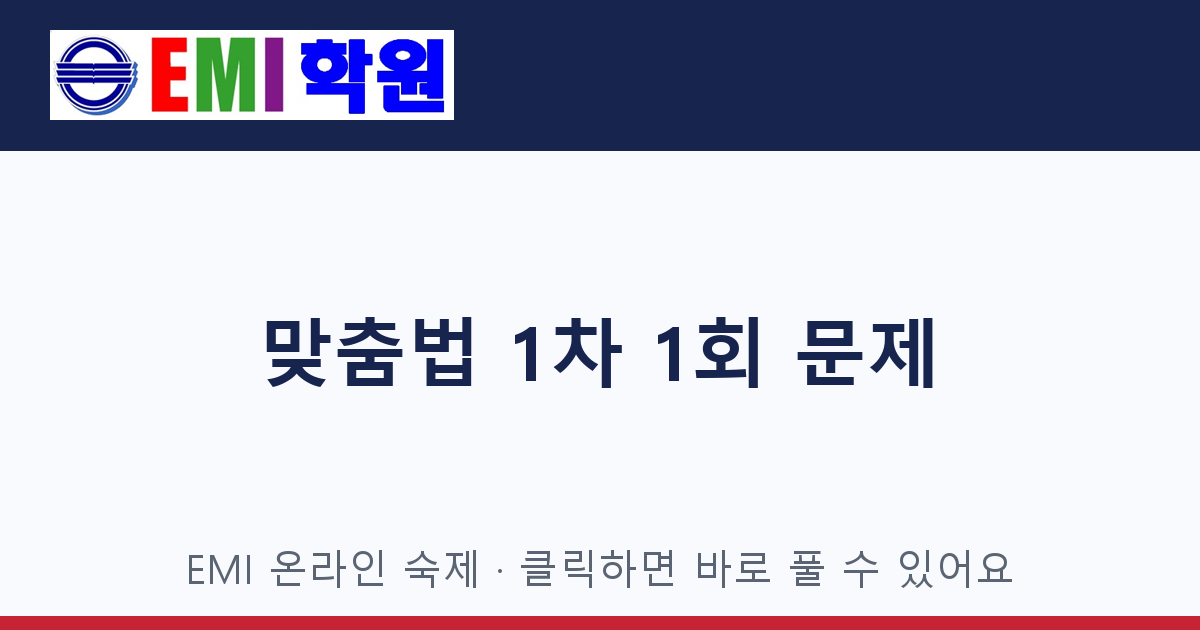
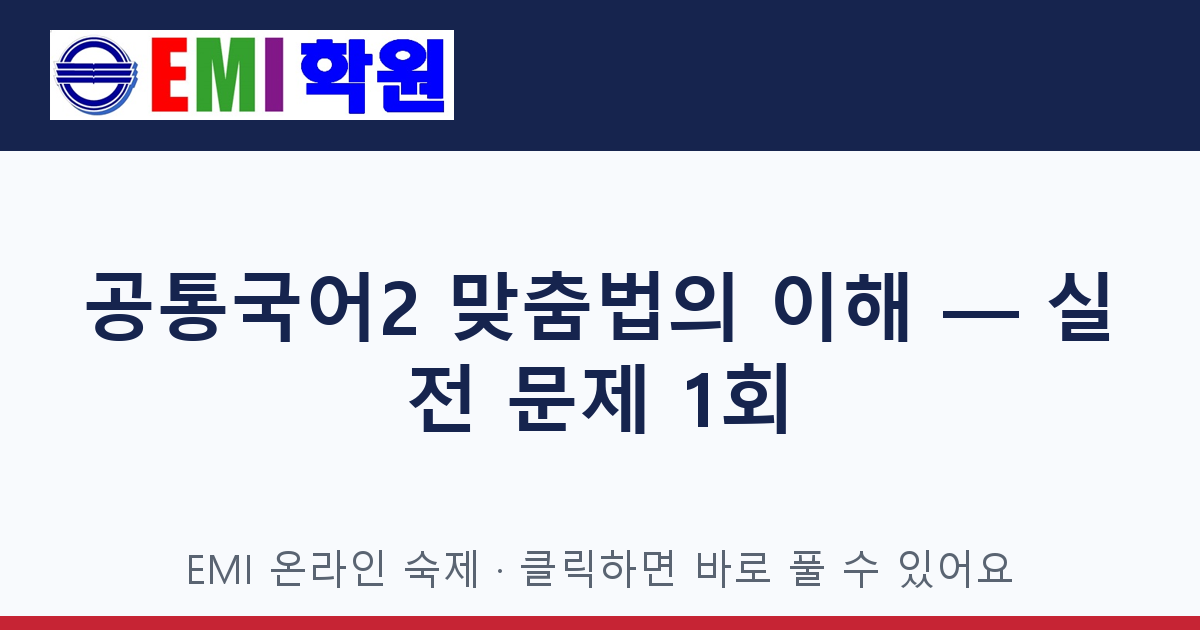
cards: machum1,machum2,machum3

Changed region(s): [[0.0617, 0.4222, 0.925, 0.6937]]

diff --git a/machum1.html b/machum1.html
@@ -1,20 +1,20 @@
 <!doctype html><html lang="ko"><head><meta charset="utf-8">
 <meta name="viewport" content="width=device-width, initial-scale=1">
-<title>한글 맞춤법 1차 1회 숙제 (제1·2·5·6·9·10·11·12항)</title>
+<title>공통국어2 한글 맞춤법의 이해 — 실전 문제 1회</title>
 <meta name="description" content="EMI 온라인 숙제 · 클릭하면 바로 풀 수 있어요 (제출 결과는 선생님에게 전송됩니다)">
 <meta property="og:type" content="website">
-<meta property="og:title" content="한글 맞춤법 1차 1회 숙제 (제1·2·5·6·9·10·11·12항)">
+<meta property="og:title" content="공통국어2 한글 맞춤법의 이해 — 실전 문제 1회">
 <meta property="og:description" content="EMI 온라인 숙제 · 클릭하면 바로 풀 수 있어요 (제출 결과는 선생님에게 전송됩니다)">
 <meta property="og:image" content="https://yanga1052-del.github.io/emi-hw-preview/img/machum1.png">
 <meta property="og:url" content="https://yanga1052-del.github.io/emi-hw-preview/machum1.html">
 <meta name="twitter:card" content="summary_large_image">
-<meta name="twitter:title" content="한글 맞춤법 1차 1회 숙제 (제1·2·5·6·9·10·11·12항)">
+<meta name="twitter:title" content="공통국어2 한글 맞춤법의 이해 — 실전 문제 1회">
 <meta name="twitter:description" content="EMI 온라인 숙제 · 클릭하면 바로 풀 수 있어요 (제출 결과는 선생님에게 전송됩니다)">
 <meta name="twitter:image" content="https://yanga1052-del.github.io/emi-hw-preview/img/machum1.png">
 <meta http-equiv="refresh" content="0; url=https://script.google.com/macros/s/AKfycbyF3ateTjzvvQgbUPQ1zHatpe2qTKi0NUpeD05WZu_OVzvtxLwxgMTxlddT3Mv3tvPU/exec?hw=machum1">
 <style>body{font-family:'Malgun Gothic',sans-serif;background:#f6f8fb;color:#1a2432;display:flex;min-height:100vh;align-items:center;justify-content:center;margin:0}
 .card{background:#fff;border-radius:16px;box-shadow:0 8px 30px rgba(20,30,70,.12);padding:40px 44px;text-align:center;max-width:460px}
 h1{color:#16244e;font-size:22px;margin:.2em 0 .6em} p{color:#5a6472} a{display:inline-block;margin-top:18px;background:#16244e;color:#fff;text-decoration:none;padding:13px 26px;border-radius:10px;font-weight:bold}</style>
-</head><body><div class="card"><h1>한글 맞춤법 1차 1회 숙제 (제1·2·5·6·9·10·11·12항)</h1><p>잠시 후 숙제 페이지로 이동합니다.<br>이동하지 않으면 아래 버튼을 눌러 주세요.</p>
+</head><body><div class="card"><h1>공통국어2 한글 맞춤법의 이해 — 실전 문제 1회</h1><p>잠시 후 숙제 페이지로 이동합니다.<br>이동하지 않으면 아래 버튼을 눌러 주세요.</p>
 <a href="https://script.google.com/macros/s/AKfycbyF3ateTjzvvQgbUPQ1zHatpe2qTKi0NUpeD05WZu_OVzvtxLwxgMTxlddT3Mv3tvPU/exec?hw=machum1">숙제 풀러 가기 →</a></div>
 <script>location.replace("https://script.google.com/macros/s/AKfycbyF3ateTjzvvQgbUPQ1zHatpe2qTKi0NUpeD05WZu_OVzvtxLwxgMTxlddT3Mv3tvPU/exec?hw=machum1");</script></body></html>

diff --git a/machum2.html b/machum2.html
@@ -1,20 +1,20 @@
 <!doctype html><html lang="ko"><head><meta charset="utf-8">
 <meta name="viewport" content="width=device-width, initial-scale=1">
-<title>한글 맞춤법 1차 2회 숙제 (제1·2·5·6·9·10·11·12항)</title>
+<title>공통국어2 한글 맞춤법의 이해 — 실전 문제 2회</title>
 <meta name="description" content="EMI 온라인 숙제 · 클릭하면 바로 풀 수 있어요 (제출 결과는 선생님에게 전송됩니다)">
 <meta property="og:type" content="website">
-<meta property="og:title" content="한글 맞춤법 1차 2회 숙제 (제1·2·5·6·9·10·11·12항)">
+<meta property="og:title" content="공통국어2 한글 맞춤법의 이해 — 실전 문제 2회">
 <meta property="og:description" content="EMI 온라인 숙제 · 클릭하면 바로 풀 수 있어요 (제출 결과는 선생님에게 전송됩니다)">
 <meta property="og:image" content="https://yanga1052-del.github.io/emi-hw-preview/img/machum2.png">
 <meta property="og:url" content="https://yanga1052-del.github.io/emi-hw-preview/machum2.html">
 <meta name="twitter:card" content="summary_large_image">
-<meta name="twitter:title" content="한글 맞춤법 1차 2회 숙제 (제1·2·5·6·9·10·11·12항)">
+<meta name="twitter:title" content="공통국어2 한글 맞춤법의 이해 — 실전 문제 2회">
 <meta name="twitter:description" content="EMI 온라인 숙제 · 클릭하면 바로 풀 수 있어요 (제출 결과는 선생님에게 전송됩니다)">
 <meta name="twitter:image" content="https://yanga1052-del.github.io/emi-hw-preview/img/machum2.png">
 <meta http-equiv="refresh" content="0; url=https://script.google.com/macros/s/AKfycbyF3ateTjzvvQgbUPQ1zHatpe2qTKi0NUpeD05WZu_OVzvtxLwxgMTxlddT3Mv3tvPU/exec?hw=machum2">
 <style>body{font-family:'Malgun Gothic',sans-serif;background:#f6f8fb;color:#1a2432;display:flex;min-height:100vh;align-items:center;justify-content:center;margin:0}
 .card{background:#fff;border-radius:16px;box-shadow:0 8px 30px rgba(20,30,70,.12);padding:40px 44px;text-align:center;max-width:460px}
 h1{color:#16244e;font-size:22px;margin:.2em 0 .6em} p{color:#5a6472} a{display:inline-block;margin-top:18px;background:#16244e;color:#fff;text-decoration:none;padding:13px 26px;border-radius:10px;font-weight:bold}</style>
-</head><body><div class="card"><h1>한글 맞춤법 1차 2회 숙제 (제1·2·5·6·9·10·11·12항)</h1><p>잠시 후 숙제 페이지로 이동합니다.<br>이동하지 않으면 아래 버튼을 눌러 주세요.</p>
+</head><body><div class="card"><h1>공통국어2 한글 맞춤법의 이해 — 실전 문제 2회</h1><p>잠시 후 숙제 페이지로 이동합니다.<br>이동하지 않으면 아래 버튼을 눌러 주세요.</p>
 <a href="https://script.google.com/macros/s/AKfycbyF3ateTjzvvQgbUPQ1zHatpe2qTKi0NUpeD05WZu_OVzvtxLwxgMTxlddT3Mv3tvPU/exec?hw=machum2">숙제 풀러 가기 →</a></div>
 <script>location.replace("https://script.google.com/macros/s/AKfycbyF3ateTjzvvQgbUPQ1zHatpe2qTKi0NUpeD05WZu_OVzvtxLwxgMTxlddT3Mv3tvPU/exec?hw=machum2");</script></body></html>

diff --git a/machum3.html b/machum3.html
@@ -1,20 +1,20 @@
 <!doctype html><html lang="ko"><head><meta charset="utf-8">
 <meta name="viewport" content="width=device-width, initial-scale=1">
-<title>한글 맞춤법 1차 3회 숙제 (제1·2·5·6·9·10·11·12항)</title>
+<title>공통국어2 한글 맞춤법의 이해 — 실전 문제 3회</title>
 <meta name="description" content="EMI 온라인 숙제 · 클릭하면 바로 풀 수 있어요 (제출 결과는 선생님에게 전송됩니다)">
 <meta property="og:type" content="website">
-<meta property="og:title" content="한글 맞춤법 1차 3회 숙제 (제1·2·5·6·9·10·11·12항)">
+<meta property="og:title" content="공통국어2 한글 맞춤법의 이해 — 실전 문제 3회">
 <meta property="og:description" content="EMI 온라인 숙제 · 클릭하면 바로 풀 수 있어요 (제출 결과는 선생님에게 전송됩니다)">
 <meta property="og:image" content="https://yanga1052-del.github.io/emi-hw-preview/img/machum3.png">
 <meta property="og:url" content="https://yanga1052-del.github.io/emi-hw-preview/machum3.html">
 <meta name="twitter:card" content="summary_large_image">
-<meta name="twitter:title" content="한글 맞춤법 1차 3회 숙제 (제1·2·5·6·9·10·11·12항)">
+<meta name="twitter:title" content="공통국어2 한글 맞춤법의 이해 — 실전 문제 3회">
 <meta name="twitter:description" content="EMI 온라인 숙제 · 클릭하면 바로 풀 수 있어요 (제출 결과는 선생님에게 전송됩니다)">
 <meta name="twitter:image" content="https://yanga1052-del.github.io/emi-hw-preview/img/machum3.png">
 <meta http-equiv="refresh" content="0; url=https://script.google.com/macros/s/AKfycbyF3ateTjzvvQgbUPQ1zHatpe2qTKi0NUpeD05WZu_OVzvtxLwxgMTxlddT3Mv3tvPU/exec?hw=machum3">
 <style>body{font-family:'Malgun Gothic',sans-serif;background:#f6f8fb;color:#1a2432;display:flex;min-height:100vh;align-items:center;justify-content:center;margin:0}
 .card{background:#fff;border-radius:16px;box-shadow:0 8px 30px rgba(20,30,70,.12);padding:40px 44px;text-align:center;max-width:460px}
 h1{color:#16244e;font-size:22px;margin:.2em 0 .6em} p{color:#5a6472} a{display:inline-block;margin-top:18px;background:#16244e;color:#fff;text-decoration:none;padding:13px 26px;border-radius:10px;font-weight:bold}</style>
-</head><body><div class="card"><h1>한글 맞춤법 1차 3회 숙제 (제1·2·5·6·9·10·11·12항)</h1><p>잠시 후 숙제 페이지로 이동합니다.<br>이동하지 않으면 아래 버튼을 눌러 주세요.</p>
+</head><body><div class="card"><h1>공통국어2 한글 맞춤법의 이해 — 실전 문제 3회</h1><p>잠시 후 숙제 페이지로 이동합니다.<br>이동하지 않으면 아래 버튼을 눌러 주세요.</p>
 <a href="https://script.google.com/macros/s/AKfycbyF3ateTjzvvQgbUPQ1zHatpe2qTKi0NUpeD05WZu_OVzvtxLwxgMTxlddT3Mv3tvPU/exec?hw=machum3">숙제 풀러 가기 →</a></div>
 <script>location.replace("https://script.google.com/macros/s/AKfycbyF3ateTjzvvQgbUPQ1zHatpe2qTKi0NUpeD05WZu_OVzvtxLwxgMTxlddT3Mv3tvPU/exec?hw=machum3");</script></body></html>

diff --git a/index.html b/index.html
@@ -2,10 +2,10 @@
 <h2>EMI 온라인 숙제 — 미리보기 카드 링크</h2><ul>
 <li><a href="muhan1.html">무한 개념 1회 숙제</a></li>
 <li><a href="muhan2.html">무한 개념 2회 숙제</a></li>
-<li><a href="machum1.html">한글 맞춤법 1차 1회 숙제 (제1·2·5·6·9·10·11·12항)</a></li>
-<li><a href="machum2.html">한글 맞춤법 1차 2회 숙제 (제1·2·5·6·9·10·11·12항)</a></li>
+<li><a href="machum1.html">공통국어2 한글 맞춤법의 이해 — 실전 문제 1회</a></li>
+<li><a href="machum2.html">공통국어2 한글 맞춤법의 이해 — 실전 문제 2회</a></li>
 <li><a href="muhan3.html">무한 개념 3회 숙제</a></li>
-<li><a href="machum3.html">한글 맞춤법 1차 3회 숙제 (제1·2·5·6·9·10·11·12항)</a></li>
+<li><a href="machum3.html">공통국어2 한글 맞춤법의 이해 — 실전 문제 3회</a></li>
 <li><a href="suso1.html">수소 전기차 1회 숙제</a></li>
 <li><a href="suso2.html">수소 전기차 2회 숙제</a></li>
 <li><a href="gom1.html">곰팡이가 남긴 선물 1회 숙제</a></li>
